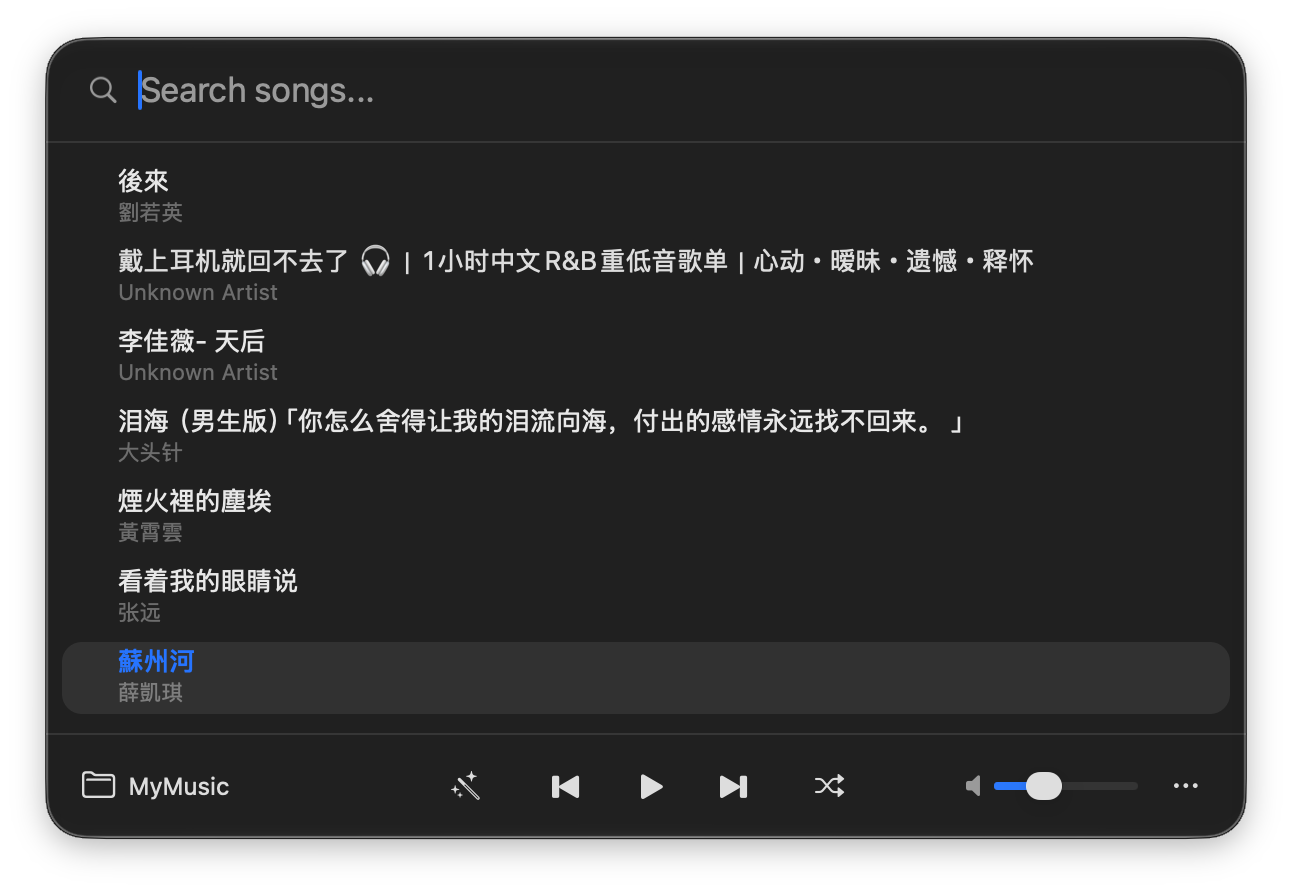
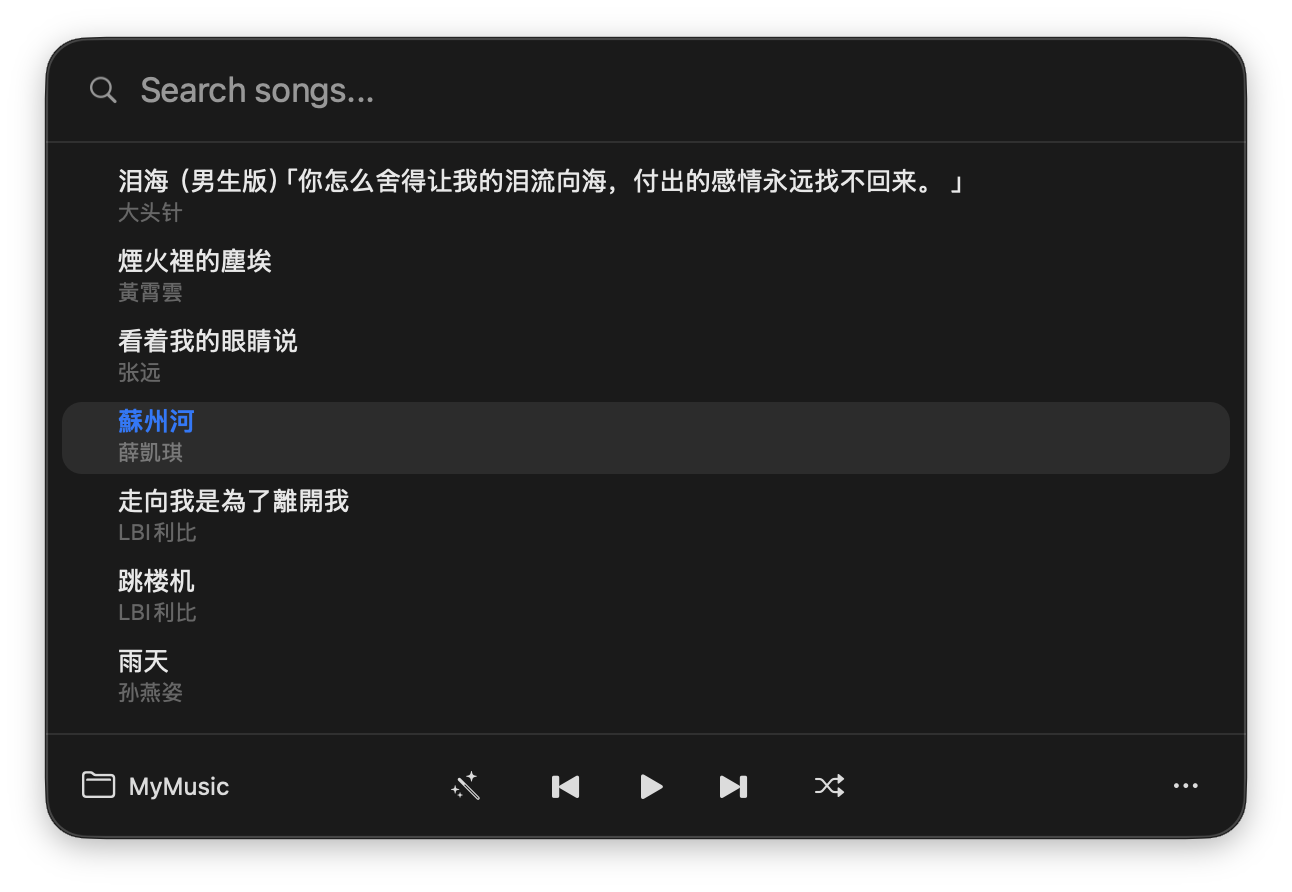
Remove volume control from picker
Owner decision: no volume UI. Drop the slider, persistence hook,
README bullet, and now-unused Volume strings.

diff --git a/MacMusicPlayer/Views/SimpleSongPickerWindow.swift b/MacMusicPlayer/Views/SimpleSongPickerWindow.swift
@@ -120,7 +120,6 @@ class SimpleSongPickerWindow: NSPanel {
     private weak var downloadMenuItem: NSMenuItem?
     private var emptyLabel: NSTextField!
     private var chooseFolderButton: NSButton!
-    private var volumeSlider: NSSlider!
     private var filteredTracks: [Track] = []
     private var displayedLibraryID: UUID?
     private var subscriptions = Set<AnyCancellable>()
@@ -298,23 +297,6 @@ class SimpleSongPickerWindow: NSPanel {
         footer.addSubview(transport)
         footer.addSubview(libraryButton)
         footer.addSubview(moreButton)
-        let volumeIcon = NSImageView()
-        volumeIcon.image = NSImage(systemSymbolName: "speaker.fill", accessibilityDescription: nil)
-        volumeIcon.symbolConfiguration = NSImage.SymbolConfiguration(pointSize: 12, weight: .regular)
-        volumeIcon.contentTintColor = .secondaryLabelColor
-        volumeIcon.translatesAutoresizingMaskIntoConstraints = false
-        volumeSlider = NSSlider(value: Double(playerManager.volume * 100), minValue: 0, maxValue: 100, target: self, action: #selector(volumeChanged))
-        volumeSlider.controlSize = .small
-        volumeSlider.translatesAutoresizingMaskIntoConstraints = false
-        let volumeTitle = NSLocalizedString("Volume", comment: "")
-        volumeSlider.toolTip = volumeTitle
-        volumeSlider.setAccessibilityLabel(volumeTitle)
-        let volumeStack = NSStackView(views: [volumeIcon, volumeSlider])
-        volumeStack.orientation = .horizontal
-        volumeStack.alignment = .centerY
-        volumeStack.spacing = 4
-        volumeStack.translatesAutoresizingMaskIntoConstraints = false
-        footer.addSubview(volumeStack)
         NSLayoutConstraint.activate([
             header.topAnchor.constraint(equalTo: contentHost.topAnchor),
             header.leadingAnchor.constraint(equalTo: contentHost.leadingAnchor),
@@ -343,9 +325,6 @@ class SimpleSongPickerWindow: NSPanel {
             transport.centerYAnchor.constraint(equalTo: footer.centerYAnchor),
             moreButton.trailingAnchor.constraint(equalTo: footer.trailingAnchor, constant: -16),
             moreButton.centerYAnchor.constraint(equalTo: footer.centerYAnchor),
-            volumeStack.centerYAnchor.constraint(equalTo: footer.centerYAnchor),
-            volumeStack.trailingAnchor.constraint(equalTo: moreButton.leadingAnchor, constant: -10),
-            volumeSlider.widthAnchor.constraint(equalToConstant: 72),
             emptyLabel.centerXAnchor.constraint(equalTo: scroll.centerXAnchor),
             emptyLabel.centerYAnchor.constraint(equalTo: scroll.centerYAnchor, constant: -16),
             chooseFolderButton.centerXAnchor.constraint(equalTo: scroll.centerXAnchor),
@@ -466,10 +445,6 @@ class SimpleSongPickerWindow: NSPanel {
         }
         modeButton.image = NSImage(systemSymbolName: symbol, accessibilityDescription: nil)?
             .withSymbolConfiguration(NSImage.SymbolConfiguration(pointSize: 13, weight: .regular))
-        let volumeValue = Double(playerManager.volume * 100)
-        if abs(volumeSlider.doubleValue - volumeValue) > 1 {
-            volumeSlider.doubleValue = volumeValue
-        }
     }
 
     private func popUp(_ menu: NSMenu, above button: NSButton) {
@@ -555,7 +530,6 @@ class SimpleSongPickerWindow: NSPanel {
 
     @objc private func showSettings() { actionTarget?.showConfigWindow() }
     @objc private func chooseMusicFolder() { actionTarget?.addNewLibrary() }
-    @objc private func volumeChanged() { playerManager.volume = Float(volumeSlider.doubleValue / 100) }
     @objc private func feelingLucky() { playerManager.feelingLucky() }
     @objc private func playPrevious() { playerManager.playPrevious() }
     @objc private func playNext() { playerManager.playNext() }

diff --git a/MacMusicPlayer/Managers/PlayerManager.swift b/MacMusicPlayer/Managers/PlayerManager.swift
@@ -34,14 +34,6 @@ class PlayerManager: NSObject {
 
     var hasPlaylist: Bool { !playlistStore.isEmpty }
 
-    var volume: Float {
-        get { queueController.volume }
-        set {
-            queueController.volume = newValue
-            UserDefaults.standard.set(newValue, forKey: "SavedVolume")
-        }
-    }
-
     var playMode: PlayMode = .sequential {
         didSet {
             UserDefaults.standard.set(playMode.rawValue, forKey: "PlayMode")

diff --git a/README.md b/README.md
@@ -46,7 +46,6 @@ Download the latest `MacMusicPlayer-arm64.dmg` from the [Releases](https://githu
 - 🎧 Audio format support (mp3, m4a, wav, flac, aac, ogg, aiff)
 - 🔄 Multiple playback modes (Sequential, Single Loop, Random)
 - 📚 Multiple music libraries with quick switch (⌘R to refresh)
-- 🔊 Volume control with memory across launches
 - 📥 Built-in YouTube/SoundCloud search & playlist downloads with thumbnails and format selection (requires yt-dlp + ffmpeg)
 - 💾 Smart memory of last music library and last played track
 - 🚀 Launch at login (enabled by default)
